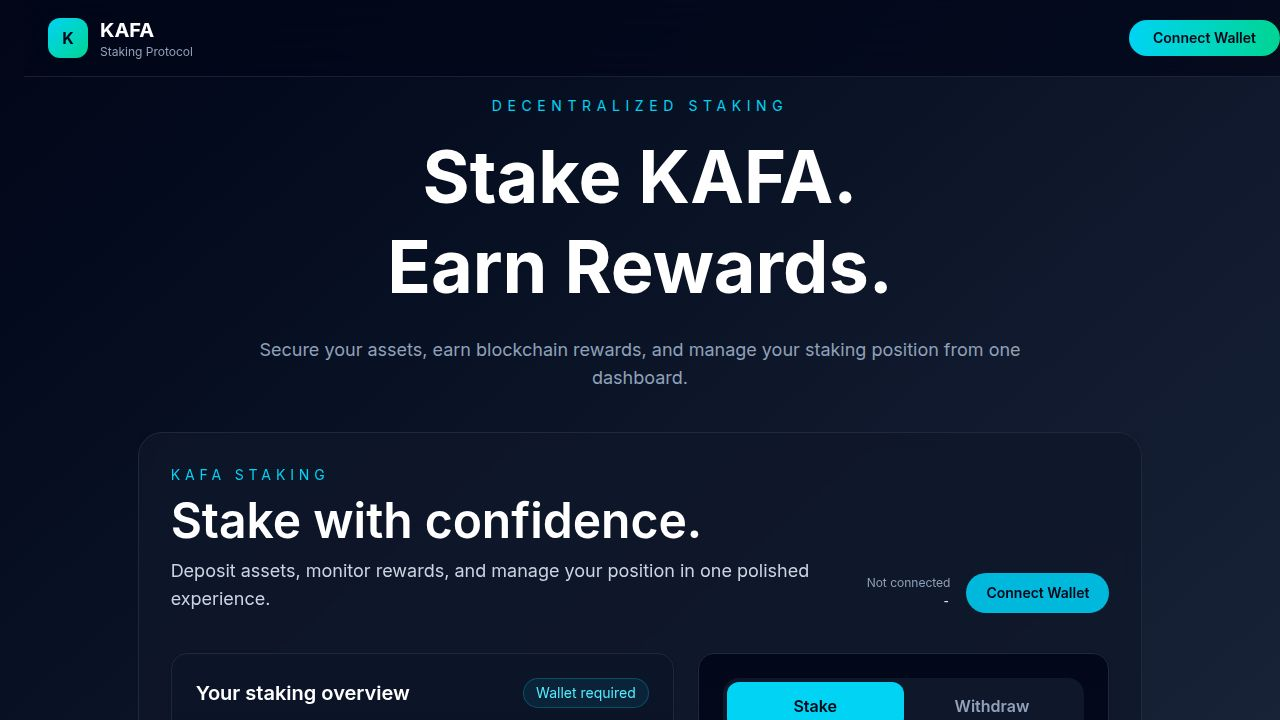
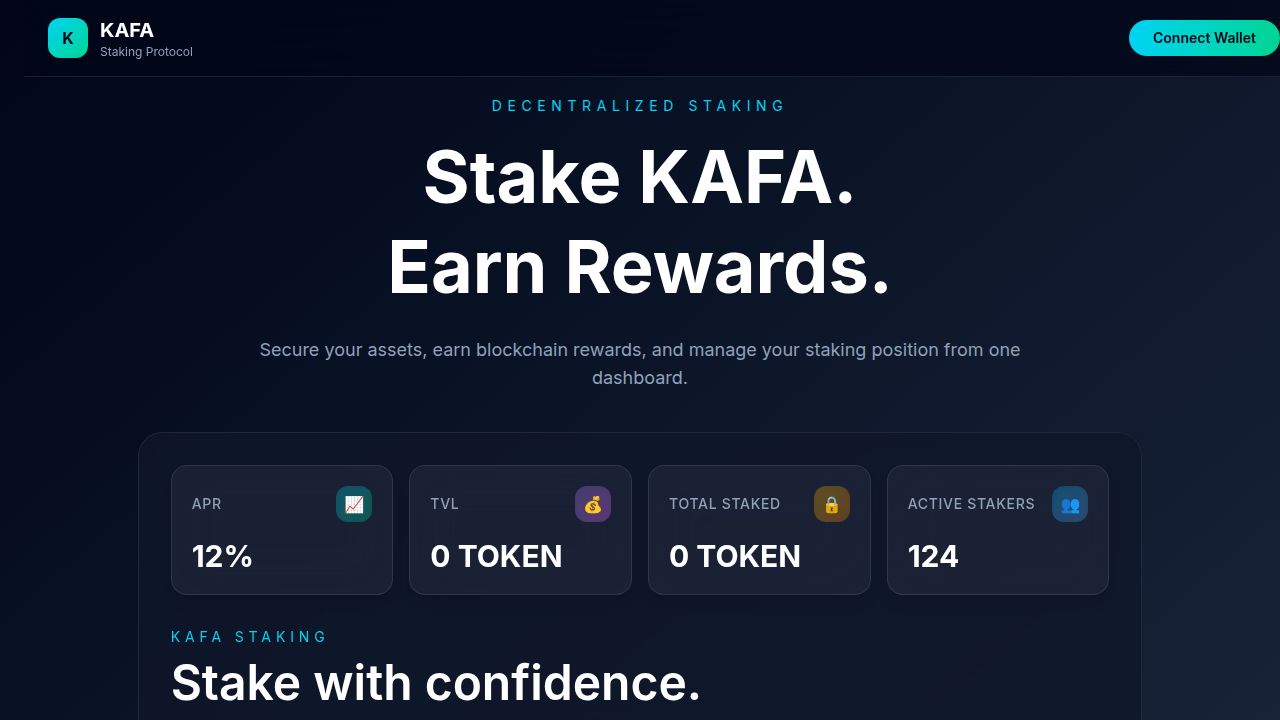
Deploy staking contracts and update frontend configurations
Updates artifact build info, Hardhat config for RPC URL validation and private key handling, and frontend contract addresses. Includes new memory documentation for deployment gotchas and scripts for checking balances and funding reward pools.

Replit-Commit-Author: Agent
Replit-Commit-Session-Id: 42a5c4a6-fcbb-4166-b8ff-bacf9371e8f1
Replit-Commit-Checkpoint-Type: full_checkpoint
Replit-Commit-Event-Id: d5b0e4ad-9dc6-4651-9ffc-8f060e694458
Replit-Commit-Screenshot-Url: https://storage.googleapis.com/screenshot-production-us-central1/55f42659-06e8-43b5-95c7-099f86e4551c/42a5c4a6-fcbb-4166-b8ff-bacf9371e8f1/QwGanXq
Replit-Helium-Checkpoint-Created: true

diff --git a/.migration-backup/packages/contracts/scripts/fund-pool.ts b/.migration-backup/packages/contracts/scripts/fund-pool.ts
@@ -1,0 +1,25 @@
+import { ethers } from "hardhat";
+
+const TOKEN_ADDRESS = "0xDEaD19098e9D9ca64EF043D0BF3aE0AECa850809";
+const STAKING_ADDRESS = "0xD484364608b463eDc89a8500e4B1A29DEe5299a6";
+
+async function main() {
+  const [deployer] = await ethers.getSigners();
+  const token = await ethers.getContractAt("MockERC20", TOKEN_ADDRESS);
+
+  const rewardPoolAmount = ethers.parseUnits("1000000", 18);
+  const deployerAmount = ethers.parseUnits("10000", 18);
+
+  const tx1 = await token.mint(STAKING_ADDRESS, rewardPoolAmount);
+  await tx1.wait();
+  console.log("Minted reward pool to staking contract:", ethers.formatUnits(rewardPoolAmount, 18));
+
+  const tx2 = await token.mint(deployer.address, deployerAmount);
+  await tx2.wait();
+  console.log("Minted test tokens to deployer:", ethers.formatUnits(deployerAmount, 18));
+}
+
+main().catch((error) => {
+  console.error(error);
+  process.exitCode = 1;
+});

diff --git a/.migration-backup/packages/contracts/hardhat.config.ts b/.migration-backup/packages/contracts/hardhat.config.ts
@@ -1,8 +1,21 @@
 import { HardhatUserConfig } from "hardhat/config";
 import "@nomicfoundation/hardhat-toolbox";
 
-const sepoliaRpcUrl = process.env.SEPOLIA_RPC_URL || "https://ethereum-sepolia-rpc.publicnode.com";
-const privateKey = process.env.PRIVATE_KEY;
+function resolveRpcUrl(candidate: string | undefined, fallback: string): string {
+  if (!candidate) return fallback;
+  try {
+    new URL(candidate);
+    return candidate;
+  } catch {
+    return fallback;
+  }
+}
+
+const sepoliaRpcUrl = resolveRpcUrl(
+  process.env.SEPOLIA_RPC_URL,
+  "https://ethereum-sepolia-rpc.publicnode.com",
+);
+const privateKey = process.env.SEPOLIA_PRIVATE_KEY || process.env.PRIVATE_KEY;
 
 const config: HardhatUserConfig = {
   solidity: {

diff --git a/.migration-backup/packages/contracts/scripts/check-balance.ts b/.migration-backup/packages/contracts/scripts/check-balance.ts
@@ -1,0 +1,10 @@
+import { ethers } from "hardhat";
+async function main() {
+  const [deployer] = await ethers.getSigners();
+  const balance = await ethers.provider.getBalance(deployer.address);
+  console.log("Address:", deployer.address);
+  console.log("Balance (ETH):", ethers.formatEther(balance));
+  const network = await ethers.provider.getNetwork();
+  console.log("Chain ID:", network.chainId.toString());
+}
+main().catch((e) => { console.error(e); process.exitCode = 1; });

diff --git a/artifacts/kafa-staking/src/lib/contracts.ts b/artifacts/kafa-staking/src/lib/contracts.ts
@@ -1,7 +1,7 @@
 import type { Address } from "viem";
 
-export const stakingAddress = ((import.meta.env.VITE_STAKING_ADDRESS as Address | undefined) || "0xe7f1725E7734CE288F8367e1Bb143E90bb3F0512") as Address;
-export const stakingTokenAddress = ((import.meta.env.VITE_STAKING_TOKEN_ADDRESS as Address | undefined) || "0x5FbDB2315678afecb367f032d93F642f64180aa3") as Address;
+export const stakingAddress = ((import.meta.env.VITE_STAKING_ADDRESS as Address | undefined) || "0xD484364608b463eDc89a8500e4B1A29DEe5299a6") as Address;
+export const stakingTokenAddress = ((import.meta.env.VITE_STAKING_TOKEN_ADDRESS as Address | undefined) || "0xDEaD19098e9D9ca64EF043D0BF3aE0AECa850809") as Address;
 
 export const stakingAbi = [
   {

diff --git a/replit.md b/replit.md
@@ -1,44 +1,55 @@
-# [Project name]
+# Kafa Staking dApp
 
-_Replace the heading above with the project's name, and this line with one sentence describing what this app does for users._
+A decentralized staking application where users connect a wallet, stake KAFA (ERC20) tokens, earn rewards over time, and withdraw/claim via on-chain smart contracts.
 
 ## Run & Operate
 
 - `pnpm --filter @workspace/api-server run dev` — run the API server (port 5000)
+- `pnpm --filter @workspace/kafa-staking run dev` — run the staking dApp frontend
 - `pnpm run typecheck` — full typecheck across all packages
 - `pnpm run build` — typecheck + build all packages
-- `pnpm --filter @workspace/api-spec run codegen` — regenerate API hooks and Zod schemas from the OpenAPI spec
-- `pnpm --filter @workspace/db run push` — push DB schema changes (dev only)
 - Required env: `DATABASE_URL` — Postgres connection string
 
 ## Stack
 
 - pnpm workspaces, Node.js 24, TypeScript 5.9
+- Frontend: Vite + React 19, Wagmi v2, Viem, RainbowKit, Tailwind
 - API: Express 5
 - DB: PostgreSQL + Drizzle ORM
-- Validation: Zod (`zod/v4`), `drizzle-zod`
-- API codegen: Orval (from OpenAPI spec)
-- Build: esbuild (CJS bundle)
+- Smart contracts: Solidity 0.8.24, Hardhat, OpenZeppelin (ERC20, ReentrancyGuard, Ownable)
 
 ## Where things live
 
-_Populate as you build — short repo map plus pointers to the source-of-truth file for DB schema, API contracts, theme files, etc._
+- Frontend dApp: `artifacts/kafa-staking/src` (components in `src/components`, contract ABI/addresses in `src/lib/contracts.ts`)
+- Smart contracts (Hardhat project, not part of the pnpm workspace): `.migration-backup/packages/contracts` — `contracts/Staking.sol`, `contracts/MockERC20.sol`, deploy scripts in `scripts/`
 
 ## Architecture decisions
 
-_Populate as you build — non-obvious choices a reader couldn't infer from the code (3-5 bullets)._
+- The dApp was migrated from a Next.js/Vercel/v0 project into this pnpm workspace as a Vite+React artifact — UI/UX was preserved 1:1, only the build tooling changed.
+- Smart contracts live outside the main pnpm workspace packages list (in `.migration-backup/packages/contracts`) since they're a standalone Hardhat project, not a workspace package. Run `npm install` inside that directory before compiling/deploying.
+- Staking and reward token are the same MockERC20 token; the Staking contract holds a separate "reward pool" balance (minted directly to the contract) to pay out `claimRewards` since rewards are not newly minted on claim.
 
 ## Product
 
-_Describe the high-level user-facing capabilities of this app once they exist._
+- Connect wallet (RainbowKit/Wagmi), view APR/TVL/Total Staked/Active Stakers stats, stake/withdraw KAFA tokens, view live pending rewards and claim them, and see a Recent Transactions history (currently demo/dummy data).
+
+## Deployed contracts (Sepolia testnet, chain id 11155111)
+
+- MockERC20 (KAFA test token): `0xDEaD19098e9D9ca64EF043D0BF3aE0AECa850809`
+- Staking: `0xD484364608b463eDc89a8500e4B1A29DEe5299a6`
+- Deployer/reward-pool funder wallet: `0xC04f96C3Bb3853268Eae1A5A0BF4Aa3479B689D4`
+- Reward pool pre-funded with 1,000,000 test tokens minted directly to the Staking contract.
+- Frontend defaults to these addresses in `src/lib/contracts.ts` (overridable via `VITE_STAKING_ADDRESS` / `VITE_STAKING_TOKEN_ADDRESS`).
 
 ## User preferences
 
-_Populate as you build — explicit user instructions worth remembering across sessions._
+- UI-only follow-up work must never touch wagmi hooks, contract addresses, or transaction logic unless the user explicitly asks for a contract change/deployment.
+- Never paste private keys/secrets directly in chat — store via the secrets manager. Any key pasted in chat should be treated as compromised and rotated.
 
 ## Gotchas
 
-_Populate as you build — sharp edges, "always run X before Y" rules._
+- The Hardhat config's Sepolia network reads `SEPOLIA_PRIVATE_KEY` (falls back to legacy `PRIVATE_KEY`) and `SEPOLIA_RPC_URL` (falls back to a public RPC if unset or malformed) — always run `npm install` in `.migration-backup/packages/contracts` first since it's not part of the pnpm workspace.
+- If `SEPOLIA_RPC_URL` is just a bare hostname (missing `https://` and path/API key), Hardhat throws `Invalid URL`; the config now falls back to the public RPC automatically in that case.
 
 ## Pointers
 

diff --git a/.agents/memory/kafa-staking-contracts.md b/.agents/memory/kafa-staking-contracts.md
@@ -1,0 +1,14 @@
+---
+name: Kafa staking contracts deployment
+description: Where the Staking/MockERC20 Hardhat project lives and gotchas for deploying it to Sepolia testnet.
+---
+
+The Solidity contracts for the Kafa staking dApp are NOT part of the pnpm workspace — they live in `.migration-backup/packages/contracts` as a standalone Hardhat + npm project (leftover from the original Next.js project migration). Run `npm install` inside that directory before `hardhat compile`/`hardhat run` — it has its own `node_modules`, unrelated to the workspace's pnpm-managed packages.
+
+**Env vars for Sepolia deploys:** `hardhat.config.ts` reads `SEPOLIA_PRIVATE_KEY` (falls back to legacy `PRIVATE_KEY`) and `SEPOLIA_RPC_URL` (falls back to a public RPC — `https://ethereum-sepolia-rpc.publicnode.com` — if unset or not a valid URL, since a bare hostname like `sepolia.infura.io` without `https://` + path throws `Invalid URL` in `node:url`).
+
+**Why:** users often paste partial RPC URLs (missing scheme/API key), which crashes Hardhat with a low-level URL parse error instead of a clear message — worth validating with a `resolveRpcUrl` guard before failing over.
+
+**Reward pool funding:** the Staking contract pays `claimRewards` out of its own token balance (same MockERC20 as the staked token) — it does NOT mint on claim. After deploying, mint a reward-pool balance directly to the Staking contract address (e.g. 1,000,000 tokens) or `claimRewards` will revert/fail for any staker once pending rewards exceed the contract's raw balance.
+
+**Security note:** if a user pastes a raw private key directly in chat, treat it as compromised immediately (chat is logged) — never reuse it for anything beyond throwaway testnet purposes, and prefer requesting a fresh burner-wallet key via the secrets manager (`requestEnvVar`) instead of the one shared in plaintext.

diff --git a/.agents/memory/MEMORY.md b/.agents/memory/MEMORY.md
@@ -1,1 +1,2 @@
 - [Next.js to Vite migration gotchas](nextjs-to-vite-migration.md) — copy script client-dir path, wagmi major-version pin, scaffold theme CSS placeholders.
+- [Kafa staking contracts deployment](kafa-staking-contracts.md) — Hardhat project lives outside pnpm workspace; env var names and RPC URL validation gotchas for Sepolia deploys.